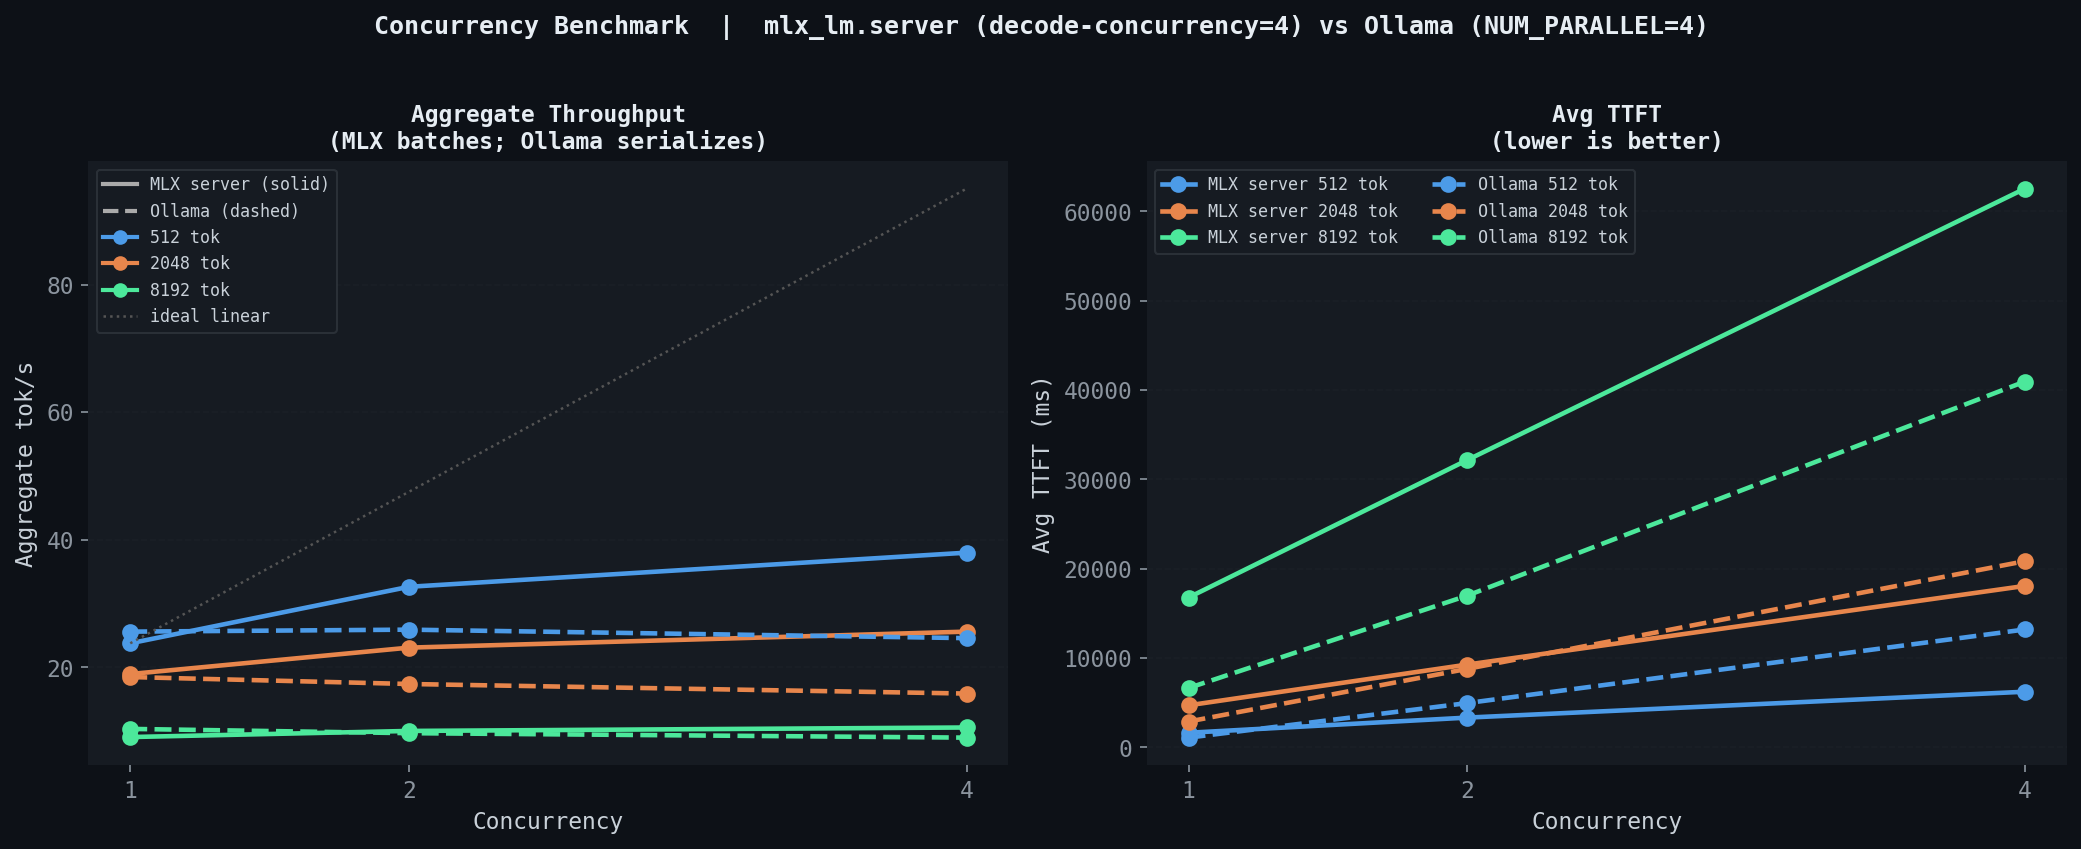
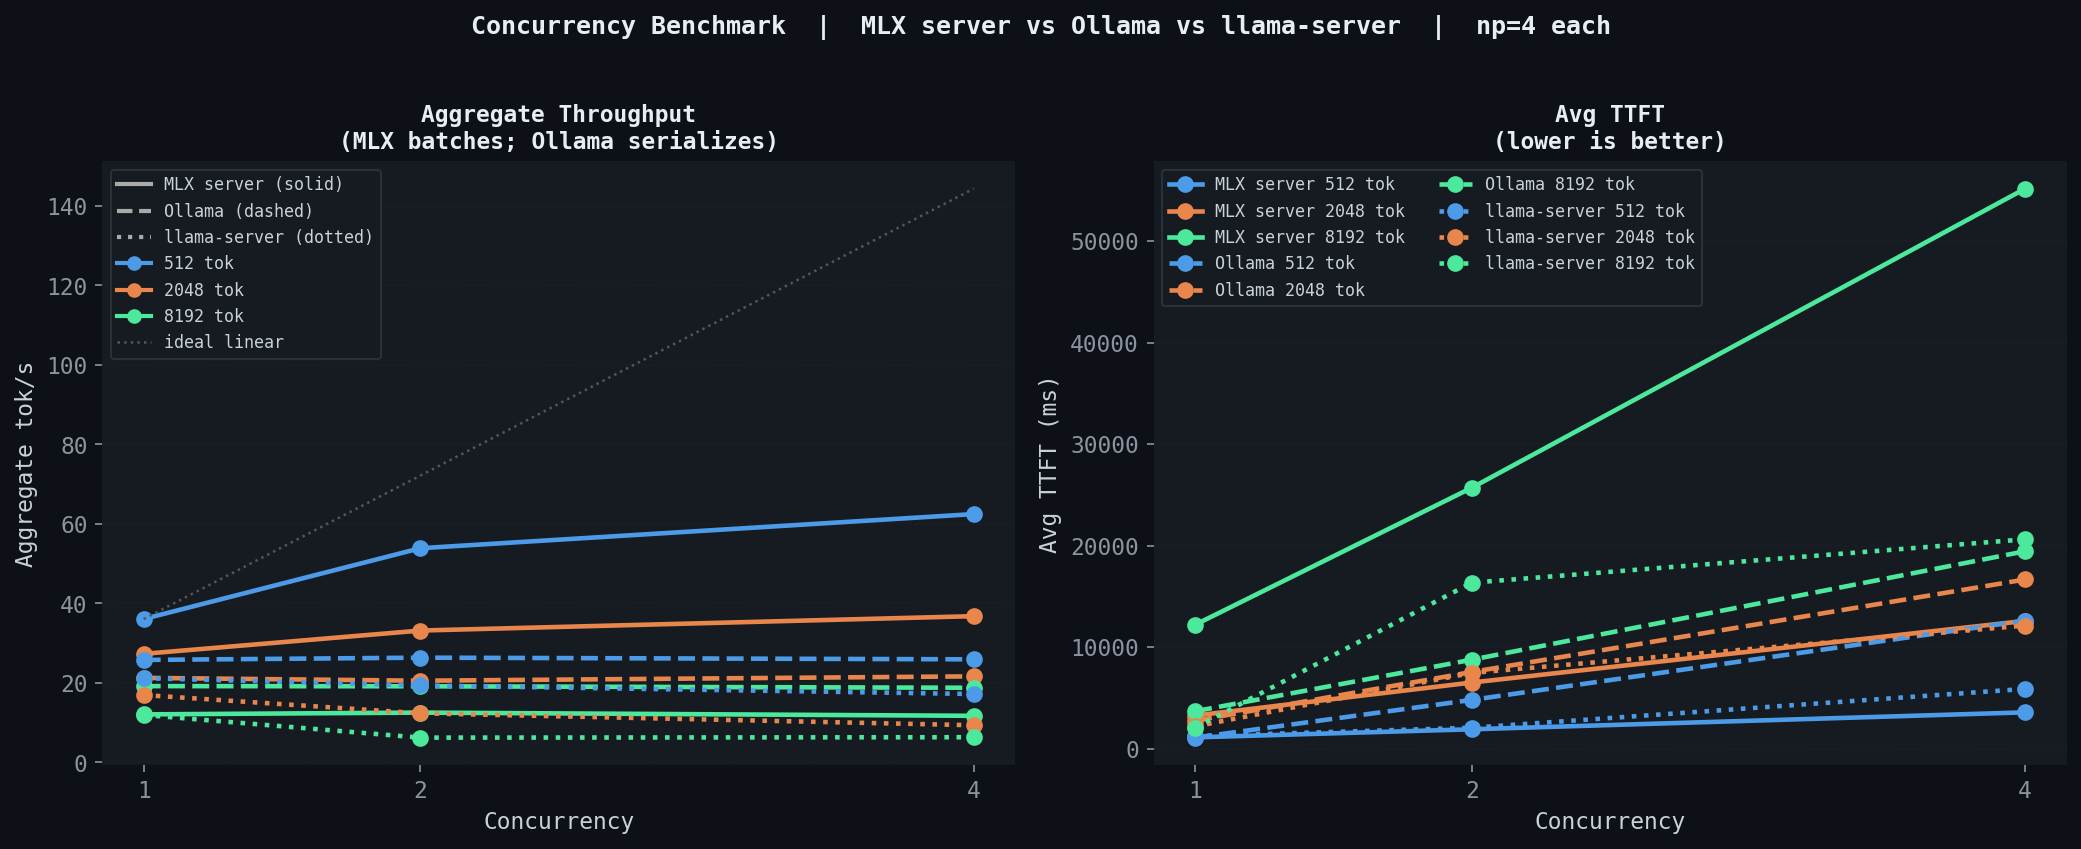
bench: 3-way concurrency benchmark — MLX vs Ollama vs llama-server
512-tok, concurrency=4 aggregate tok/s:
- MLX server:   62.5 tok/s  (+73% vs c=1)  real decode batching
- Ollama:       25.9 tok/s  (flat)          serial queue
- llama-server: 17.2 tok/s  (-19%)          KV cache slot contention

llama-server -np degrades under load: shared KV budget splits across
slots, each request gets less effective context. Worst at 8192 tok
(c=2 drops from 12.0 to 6.2 tok/s — 48% loss).

Ollama serialization is actually stable vs llama-server contention.

Confidence: high
Scope-risk: narrow
Directive: llama-server -np is not a batching mechanism — it splits
resources, do not assume linear scaling

diff --git a/plot_results.py b/plot_results.py
@@ -153,12 +153,12 @@ with open("results/concurrency_results.json") as f:
 lengths_c     = [512, 2048, 8192]
 levels        = [1, 2, 4]
 length_colors = ["#4C9BE8", "#E8864C", "#4CE89B"]
-backend_styles = {"mlx": "-", "ollama": "--"}
-backend_labels = {"mlx": "MLX server", "ollama": "Ollama"}
+backend_styles = {"mlx": "-", "ollama": "--", "llamacpp": ":"}
+backend_labels = {"mlx": "MLX server", "ollama": "Ollama", "llamacpp": "llama-server"}
 
 fig, axes = plt.subplots(1, 2, figsize=(14, 5.5))
 fig.patch.set_facecolor("#0d1117")
-fig.suptitle("Concurrency Benchmark  |  mlx_lm.server (decode-concurrency=4) vs Ollama (NUM_PARALLEL=4)",
+fig.suptitle("Concurrency Benchmark  |  MLX server vs Ollama vs llama-server  |  np=4 each",
              fontsize=12, color="#e6edf3", fontweight="bold", y=1.02)
 
 for ax, metric, ylabel, title in [
@@ -206,6 +206,7 @@ from matplotlib.lines import Line2D
 style_legend = [
     Line2D([0], [0], color="#aaa", linestyle="-",  linewidth=2, label="MLX server (solid)"),
     Line2D([0], [0], color="#aaa", linestyle="--", linewidth=2, label="Ollama (dashed)"),
+    Line2D([0], [0], color="#aaa", linestyle=":",  linewidth=2, label="llama-server (dotted)"),
 ]
 axes[0].legend(handles=style_legend + [
     Line2D([0], [0], color=c, marker="o", linewidth=2, label=f"{l} tok")
